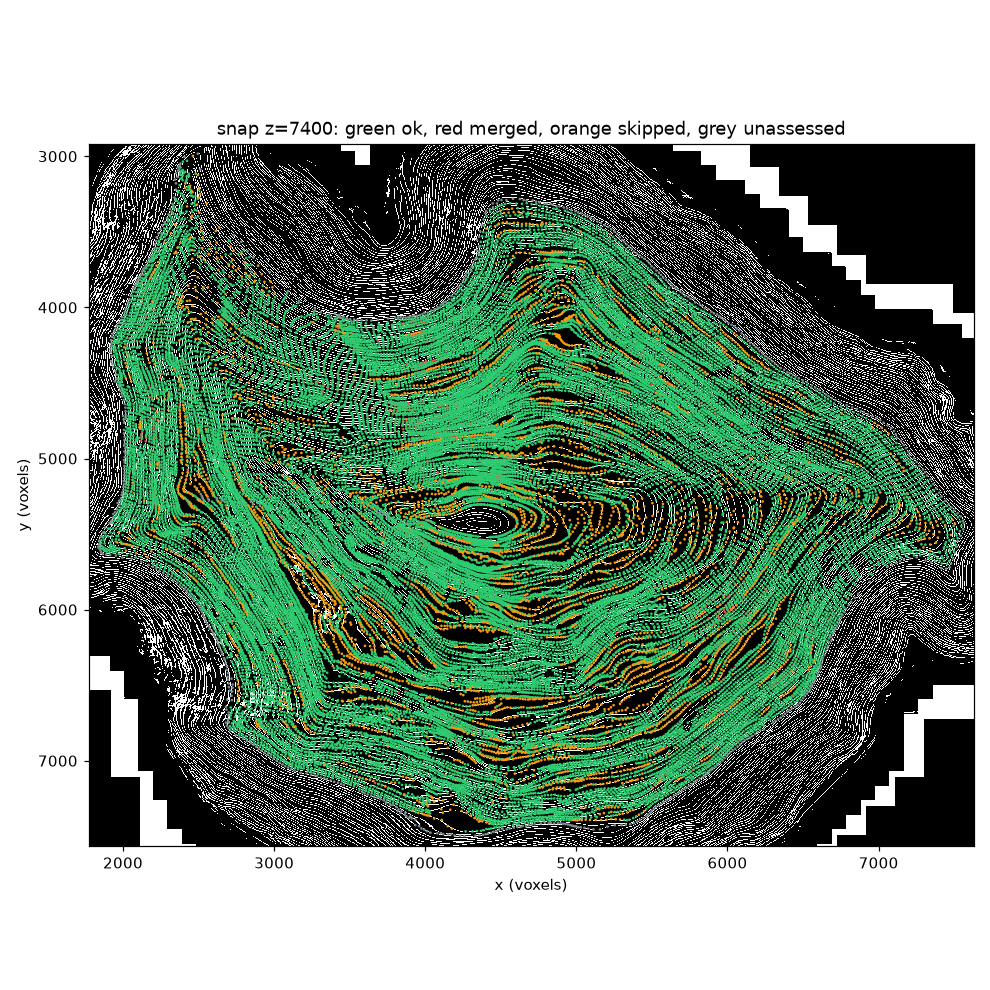
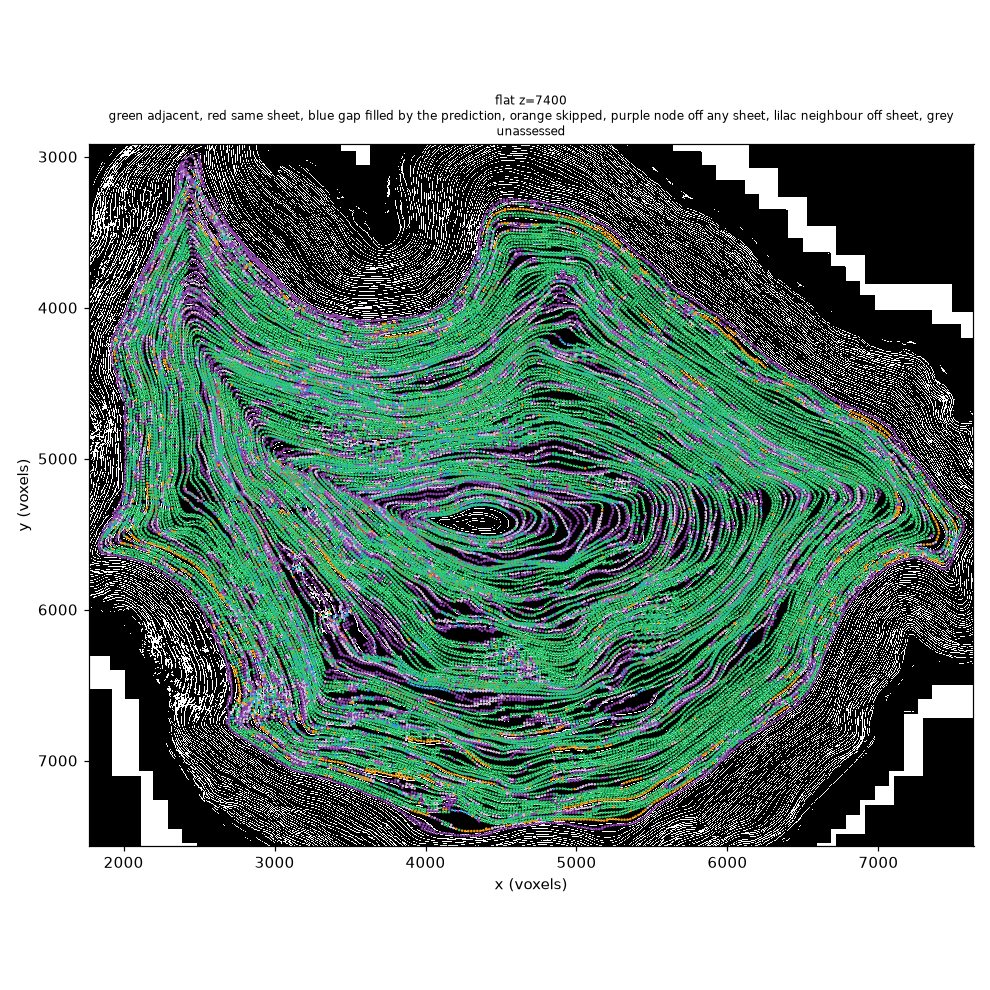
Measure to the neighbour's surface; take the pitch from the prediction
Spacing: the distance from a node to the next winding is now to its surface,
the foot of the perpendicular onto the neighbour's tangent plane at its
nearest node (falls back to the node if the foot slides more than a grid
step). On a 20-voxel grid the nearest node can be 10+ voxels to the side, so
two windings lying on top of each other read as a pitch apart. Checked on
PHerc. 0175A flatten output against exact point-to-triangle distances to the
neighbour mesh (agree within 1 voxel for ~90% of nodes): w030/w031 are within
2 voxels on 55% of w030, w101/w102 on 31%, w070/w071 on 2%.

Pitch: with a prediction, the sheet pitch is the median spacing of
consecutive predicted-sheet runs along the node normals (prediction_pitch),
not the pair's own median spacing, which a collapsed pair shrinks (w030: 1.4
vs 15.5 voxels). Rows record the pitch used, the pair's median spacing and
their ratio (collapsed < 0.75, stretched > 1.25). The repair uses the same
pitch. grid_normals moves to tifxyz.

Tests: offset-node merger found only with the surface distance; prediction
pitch recovers the synthetic pitch.

diff --git a/winding_audit/spacing.py b/winding_audit/spacing.py
@@ -4,6 +4,13 @@ Adjacent windings of a scroll are one sheet pitch apart everywhere. A node much 
 winding means the two windings sit on the same sheet there (a merger); a node much farther means a wrap was skipped.
 The pitch is estimated from the data itself (the median spacing of the pair), so no scroll-specific value is needed.
 
+Distances are to the neighbour's *surface*, not its nodes: on a 20-voxel grid the nearest node of the next winding
+can be 10 or more voxels to the side, so two windings that touch would read as a pitch apart. The nearest node is
+found first (with an angular window, below), then the node is projected onto the neighbour's tangent plane there
+(the plane through that node, normal to the neighbour's grid). The foot of that perpendicular is the nearest point;
+if it slides more than a grid step from the node it was built on (a curved or folded neighbour), the node itself is
+used.
+
 A node that is far from the neighbour but whose nearest point lies on the neighbour's own boundary (its band edge, or
 the edge of a hole) is not called "skipped": the true nearest sheet point may be outside the neighbour's coverage, so a
 large distance says nothing there. A small or normal distance to a boundary point is still a real measurement.
@@ -16,7 +23,7 @@ import numpy as np
 from scipy import ndimage
 from scipy.spatial import cKDTree
 
-from .tifxyz import Winding
+from .tifxyz import Winding, grid_normals
 
 OK, MERGED, SKIPPED, UNASSESSED = 0, 1, 2, 3
 FLAG_NAMES = {OK: "ok", MERGED: "merged", SKIPPED: "skipped", UNASSESSED: "unassessed"}
@@ -28,6 +35,7 @@ class SpacingResult:
     nearest: np.ndarray      # (H, W, 3) nearest point on B
     flag: np.ndarray         # (H, W) int8: OK / MERGED / SKIPPED / UNASSESSED (UNASSESSED also where A is invalid)
     pitch: float             # estimated sheet pitch for this pair (voxels)
+    on_plane: np.ndarray | None = None   # (H, W) bool: the nearest point is the foot on B's tangent plane
 
     def fractions(self) -> dict[str, float]:
         assessed = (self.flag == OK) | (self.flag == MERGED) | (self.flag == SKIPPED)
@@ -49,8 +57,9 @@ def boundary_mask(valid: np.ndarray) -> np.ndarray:
 
 
 def neighbour_spacing(a: Winding, b: Winding, merge_frac: float = 0.3, skip_frac: float = 1.7,
-                      pitch: float | None = None, angular_weight: float = 10.0) -> SpacingResult:
-    """Distance from every node of ``a`` to the surface of ``b`` (nearest node), with merged / skipped flags.
+                      pitch: float | None = None, angular_weight: float = 10.0,
+                      to_surface: bool = True) -> SpacingResult:
+    """Distance from every node of ``a`` to the surface of ``b``, with merged / skipped flags.
 
     Each winding is one turn of the spiral, columns ordered by angle, so the end of winding k physically meets the
     start of winding k+1 (one sheet continuing). A plain nearest-point distance reads ~0 there and would call it a
@@ -65,7 +74,7 @@ def neighbour_spacing(a: Winding, b: Winding, merge_frac: float = 0.3, skip_frac
     nearest = np.full((H, W, 3), np.nan)
     flag = np.full((H, W), UNASSESSED, np.int8)
     if len(pa) == 0 or len(pb) == 0:
-        return SpacingResult(distance, nearest, flag, float("nan"))
+        return SpacingResult(distance, nearest, flag, float("nan"), np.zeros((H, W), bool))
     d0, _ = cKDTree(pb).query(pa, workers=1)            # pass 1: plain 3D, only to scale the angular axis
     pitch0 = pitch if pitch is not None else float(np.median(d0))
     ta = rca[:, 1] / max(a.xyz.shape[1] - 1, 1)
@@ -74,9 +83,18 @@ def neighbour_spacing(a: Winding, b: Winding, merge_frac: float = 0.3, skip_frac
     qa = np.column_stack([pa, lam * ta])
     qb = np.column_stack([pb, lam * tb])
     _, j = cKDTree(qb).query(qa, workers=1)             # pass 2: nearest neighbour node at a similar angle
-    d = np.linalg.norm(pb[j] - pa, axis=1)              # the reported distance is the plain 3D one
+    q = pb[j]
+    plane = np.zeros(len(pa), bool)
+    if to_surface:
+        nb = grid_normals(b.xyz)[rcb[j, 0], rcb[j, 1]]
+        foot = pa - ((pa - q) * nb).sum(1, keepdims=True) * nb
+        plane = np.isfinite(foot).all(1) & (np.linalg.norm(foot - q, axis=1) <= b.grid_step)
+        q = np.where(plane[:, None], foot, q)
+    d = np.linalg.norm(q - pa, axis=1)                  # plain 3D distance to the surface point
     distance[rca[:, 0], rca[:, 1]] = d
-    nearest[rca[:, 0], rca[:, 1]] = pb[j]
+    nearest[rca[:, 0], rca[:, 1]] = q
+    on_plane = np.zeros((H, W), bool)
+    on_plane[rca[:, 0], rca[:, 1]] = plane
     on_edge = boundary_mask(b.valid)[rcb[j, 0], rcb[j, 1]]
     if pitch is None:
         core = d[~on_edge]
@@ -86,4 +104,4 @@ def neighbour_spacing(a: Winding, b: Winding, merge_frac: float = 0.3, skip_frac
     # the band edge), so "skipped" cannot be read off it; a small or normal distance to a border point is still real
     f[on_edge & (f == SKIPPED)] = UNASSESSED
     flag[rca[:, 0], rca[:, 1]] = f
-    return SpacingResult(distance, nearest, flag, pitch)
+    return SpacingResult(distance, nearest, flag, pitch, on_plane)

diff --git a/winding_audit/repair.py b/winding_audit/repair.py
@@ -30,9 +30,9 @@ from dataclasses import dataclass, field
 
 import numpy as np
 
-from .sheets import sample_volume
+from .sheets import prediction_pitch, sample_volume
 from .spacing import neighbour_spacing
-from .tifxyz import Winding
+from .tifxyz import Winding, grid_normals  # noqa: F401  (grid_normals re-exported)
 
 R_KEPT, R_MOVED, R_UNREPAIRED, R_REJECTED, R_NOT_ASSESSED, R_SHARED = 0, 1, 2, 3, 4, 5
 REPAIR_STATUS_NAMES = {R_KEPT: "kept", R_MOVED: "moved", R_SHARED: "kept_shared_run", R_UNREPAIRED: "unrepaired",
@@ -46,32 +46,6 @@ class RepairResult:
     status: np.ndarray          # (H, W) int8 R_*
     pitch: float
     stats: dict = field(default_factory=dict)
-
-
-def grid_normals(xyz: np.ndarray) -> np.ndarray:
-    """Unit normals of a tifxyz grid (H, W, 3), NaN where undefined: cross product of the column and row tangents
-    (central differences where both neighbours exist, one-sided otherwise)."""
-    def tangent(axis):
-        fwd = np.roll(xyz, -1, axis) - xyz
-        bwd = xyz - np.roll(xyz, 1, axis)
-        n = xyz.shape[axis]
-        sl = [slice(None)] * 3
-        sl[axis] = slice(n - 1, n)
-        fwd[tuple(sl)] = np.nan
-        sl[axis] = slice(0, 1)
-        bwd[tuple(sl)] = np.nan
-        f_ok, b_ok = np.isfinite(fwd).all(-1), np.isfinite(bwd).all(-1)
-        t = np.full_like(xyz, np.nan)
-        both = f_ok & b_ok
-        t[both] = 0.5 * (fwd[both] + bwd[both])
-        t[f_ok & ~b_ok] = fwd[f_ok & ~b_ok]
-        t[b_ok & ~f_ok] = bwd[b_ok & ~f_ok]
-        return t
-    n = np.cross(tangent(1), tangent(0))
-    norm = np.linalg.norm(n, axis=-1, keepdims=True)
-    with np.errstate(invalid="ignore", divide="ignore"):
-        n = n / np.where(norm > 1e-9, norm, np.nan)
-    return n
 
 
 def edge_stretch(xyz: np.ndarray, grid_step: float) -> dict:
@@ -100,11 +74,13 @@ def _run_id_at(runid: np.ndarray, centre_idx: np.ndarray, w: int) -> np.ndarray:
 
 def repair_winding(a: Winding, prev: Winding, nxt: Winding, surface, threshold: int = 128, node_tol: float = 2.0,
                    max_shift_frac: float = 1.25, search_frac: float = 2.5, jump_frac: float = 0.4,
-                   step: float = 1.0) -> RepairResult:
+                   step: float = 1.0, pitch: float | None = None) -> RepairResult:
     H, W = a.xyz.shape[:2]
-    sp_n = neighbour_spacing(a, nxt)
-    sp_p = neighbour_spacing(a, prev)
-    pitch = float(np.nanmedian([sp_n.pitch, sp_p.pitch]))
+    if pitch is None or not np.isfinite(pitch):
+        pitch = prediction_pitch(a, surface, threshold)
+    pitch = float(pitch)
+    sp_n = neighbour_spacing(a, nxt, pitch=pitch)
+    sp_p = neighbour_spacing(a, prev, pitch=pitch)
     status = np.full((H, W), R_NOT_ASSESSED, np.int8)
     shift = np.full((H, W), np.nan)
     shift[a.valid] = 0.0
@@ -112,7 +88,7 @@ def repair_winding(a: Winding, prev: Winding, nxt: Winding, surface, threshold: 
     # the neighbours' positions are read by projecting their nearest points onto the normal; that holds even where
     # the spacing check left a node unassessed (its nearest point on the neighbour's border), as long as the nearest
     # point is not far to the side (the neighbour has no coverage there)
-    side_max = max(2.0 * a.grid_step, 2.0 * float(np.nanmedian([sp_n.pitch, sp_p.pitch])))
+    side_max = max(2.0 * a.grid_step, 2.0 * pitch)
     ok = a.valid & np.isfinite(n).all(-1) & np.isfinite(sp_n.distance) & np.isfinite(sp_p.distance)
     for q in (sp_n.nearest, sp_p.nearest):
         d = np.where(ok[..., None], q - a.xyz, 0.0)

diff --git a/tests/test_synthetic.py b/tests/test_synthetic.py
@@ -166,3 +166,40 @@ def test_collapsed_pair_is_reported(tmp_path):
     assert all(0.75 < rows[f"w00{k}_syn"]["pitch_ratio"] < 1.25 for k in (0, 3, 4))
     summary = json.load(open(out / "summary.json"))
     assert summary["pairs_collapsed"] == 1 and summary["pairs_stretched"] == 1
+
+
+def test_touching_windings_with_offset_nodes_are_merged():
+    """Two windings on one sheet whose nodes sit half a grid step apart around the turn: the nearest *node* is ~5
+    voxels away (half a pitch), the nearest *surface* point ~0. The surface distance must call it merged."""
+    from winding_audit.spacing import MERGED, neighbour_spacing
+    from winding_audit.tifxyz import Winding
+    centre, r0, n_theta = (89.5, 89.5), 40.0, 24
+    thetas = np.linspace(0, 2 * np.pi, n_theta, endpoint=False)
+    half = np.pi / n_theta
+    zs = np.arange(0.5, 40, 10.0)
+
+    def winding(n, th):
+        r = r0 + PITCH * (n + th / (2 * np.pi))
+        xyz = np.empty((len(zs), len(th), 3))
+        xyz[..., 0] = centre[1] + r * np.cos(th)
+        xyz[..., 1] = centre[0] + r * np.sin(th)
+        xyz[..., 2] = zs[:, None]
+        return Winding(f"w{n:03d}", "", xyz, {"scale": [0.1, 0.1]})
+
+    a = winding(1, thetas)
+    b = winding(1, thetas + half)                  # same sheet, nodes shifted half a column
+    b.xyz[..., 2] += 5.0                           # and half a row
+    node = neighbour_spacing(a, b, pitch=PITCH, to_surface=False)
+    surf = neighbour_spacing(a, b, pitch=PITCH)
+    inner = np.zeros_like(a.valid)
+    inner[1:-1, 1:-1] = True                       # the neighbour's plane is defined away from its border
+    assert np.nanmedian(node.distance[inner]) > 0.3 * PITCH         # node distance misses the merger
+    assert (surf.flag[inner] == MERGED).mean() > 0.9                  # surface distance finds it
+    assert np.nanmedian(surf.distance[inner]) < 1.0
+
+
+def test_prediction_pitch(dataset):
+    from winding_audit.sheets import prediction_pitch
+    surface, ws, _, _ = dataset
+    for k in (1, 2, 3):
+        assert abs(prediction_pitch(ws[k], surface) - PITCH) < 1.5

diff --git a/winding_audit/sheets.py b/winding_audit/sheets.py
@@ -27,7 +27,7 @@ import zarr
 zarr.config.set({"async.concurrency": 2})   # this tool shares the machine; one chunk at a time is enough
 
 from .spacing import SpacingResult, UNASSESSED
-from .tifxyz import Winding
+from .tifxyz import Winding, grid_normals
 
 
 S_ADJACENT, S_MERGED, S_SKIPPED, S_START_OFF, S_END_OFF, S_UNASSESSED, S_FUSED = 0, 1, 2, 3, 4, 5, 6
@@ -147,6 +147,32 @@ def node_sheet_distance(arr, pts_xyz: np.ndarray, threshold: int = 128, radius: 
             cand = np.where(hit, norms[None, :], np.inf).min(1)
             out[ss] = np.minimum(out[ss], cand)
     return out
+
+
+def prediction_pitch(a: Winding, surface, threshold: int = 128, n_sample: int = 2000, half_span: float = 40.0,
+                     min_gap: float = 3.0, seed: int = 0) -> float:
+    """The sheet pitch read from the prediction itself: along the normals of a sample of the winding's nodes, the
+    median spacing between consecutive predicted-sheet runs (run centres; gaps under ``min_gap`` voxels, a sheet
+    split in two, are ignored). Unlike a pair's own median spacing, it cannot shrink when the two windings of the
+    pair sit on one sheet."""
+    n = grid_normals(a.xyz)
+    ok = a.valid & np.isfinite(n).all(-1)
+    idx = np.flatnonzero(ok)
+    if len(idx) == 0:
+        return float("nan")
+    idx = np.random.default_rng(seed).choice(idx, min(n_sample, len(idx)), replace=False)
+    r, c = np.unravel_index(idx, ok.shape)
+    p, nv = a.xyz[r, c], n[r, c]
+    t = np.arange(-half_span, half_span + 1)
+    on = sample_volume(surface, (p[:, None, :] + t[None, :, None] * nv[:, None, :]).reshape(-1, 3))
+    on = on.reshape(len(p), len(t)) >= threshold
+    d = np.diff(np.pad(on.astype(np.int8), ((0, 0), (1, 1))), axis=1)
+    rs, cs = np.nonzero(d == 1)
+    _, ce = np.nonzero(d == -1)
+    centre = (cs + ce - 1) / 2.0
+    gaps = np.diff(centre)[rs[1:] == rs[:-1]]
+    gaps = gaps[gaps >= min_gap]
+    return float(np.median(gaps)) if len(gaps) else float("nan")
 
 
 def count_runs(mask: np.ndarray) -> np.ndarray:

diff --git a/winding_audit/cli.py b/winding_audit/cli.py
@@ -19,7 +19,7 @@ import numpy as np
 
 from . import report as rep
 from .figures import winding_grid_figure
-from .sheets import open_surface, sheet_counts
+from .sheets import open_surface, prediction_pitch, sheet_counts
 from .spacing import neighbour_spacing
 from .tifxyz import list_windings, load_winding, save_winding
 
@@ -43,7 +43,10 @@ def cmd_audit(a):
             if m["verdict"].size:
                 verdicts[w1.name] = m["verdict"]
             continue
-        sp = neighbour_spacing(w1, w2, a.merge_frac, a.skip_frac)
+        # the pitch comes from the prediction when there is one: a pair on one sheet cannot shrink it
+        pitch = _retry(lambda: prediction_pitch(w1, surface, a.threshold)) if surface is not None else None
+        sp = neighbour_spacing(w1, w2, a.merge_frac, a.skip_frac,
+                               pitch=pitch if pitch is not None and np.isfinite(pitch) else None)
         sc = (_retry(lambda: sheet_counts(w1, sp, surface, a.threshold, node_tol=a.node_tol, radius=a.radius))
               if surface is not None else None)
         row = rep.pair_row(w1, w2, sp, sc, a.voxel_um)
@@ -60,7 +63,8 @@ def cmd_audit(a):
         if a.grid_figures:
             winding_grid_figure(w1.name, sp, sc, os.path.join(a.out, "windings", f"{w1.name}.png"), w1.grid_step,
                                 a.voxel_um)
-        print(f"{w1.name:>16s} -> {w2.name:<16s} pitch {sp.pitch:5.1f} vox  spacing merged {row['frac_merged']:.3f} "
+        print(f"{w1.name:>16s} -> {w2.name:<16s} pitch {sp.pitch:5.1f} vox, pair spacing "
+              f"{row['pair_median_vox']:5.1f}  spacing merged {row['frac_merged']:.3f} "
               f"skipped {row['frac_skipped']:.3f}" + (f" | off-sheet {row['frac_node_off_sheet']:.3f} | sheets: "
               f"adjacent {row['frac_sheet_adjacent']:.3f} merged {row['frac_sheet_merged']:.3f} "
               f"fused {row['frac_sheet_fused']:.3f} skipped {row['frac_sheet_skipped']:.3f}" if sc is not None else ""),

diff --git a/winding_audit/report.py b/winding_audit/report.py
@@ -17,7 +17,12 @@ COLLAPSED, STRETCHED = 0.75, 1.25    # pair pitch / local pitch outside these: t
 
 def pair_row(a: Winding, b: Winding, sp: SpacingResult, sc: SheetCountResult | None, voxel_um: float | None) -> dict:
     row = {"winding": a.name, "next": b.name, "n_nodes": int(a.valid.sum()), **sp.fractions()}
-    row["pitch_vox"] = sp.pitch
+    row["pitch_vox"] = sp.pitch                       # the pitch the flags use (prediction pitch when available)
+    d = sp.distance[np.isin(sp.flag, (OK, MERGED, SKIPPED))]
+    row["pair_median_vox"] = float(np.median(d)) if len(d) else None
+    row["pitch_source"] = "prediction" if sc is not None else "pair"
+    row["pitch_ratio"] = (row["pair_median_vox"] / sp.pitch
+                          if sc is not None and row["pair_median_vox"] is not None and sp.pitch else None)
     if sc is not None:
         h = sc.histogram()
         row.update({f"sheet_{k}": v for k, v in h.items()})
@@ -39,9 +44,11 @@ def pair_row(a: Winding, b: Winding, sp: SpacingResult, sc: SheetCountResult | N
 
 
 def add_local_pitch(rows: list[dict], voxel_um: float | None = None, half_window: int = 3):
-    """Local pitch = the mean pair pitch over +-half_window neighbouring pairs (the band's radial span per winding
-    there). A pair whose two windings sit on one sheet has a small median spacing of its own and hides from its own
-    pitch; against the local pitch it shows (ratio well below 1, its neighbour pair above 1)."""
+    """Without a prediction (spacing only), the pitch ratio is taken against the local pitch: the mean pair pitch
+    over +-half_window neighbouring pairs (the band's radial span per winding there). Rows that already have a
+    ratio against the prediction pitch keep it."""
+    if all(r.get("pitch_source") == "prediction" and r.get("pitch_ratio") is not None for r in rows):
+        return rows
     def pv(r):
         if r.get("pitch_vox") is not None:
             return r["pitch_vox"]

diff --git a/winding_audit/tifxyz.py b/winding_audit/tifxyz.py
@@ -85,3 +85,29 @@ def save_winding(w: Winding, out_dir: str) -> str:
         meta["bbox"] = [w.xyz[v].min(0).tolist(), w.xyz[v].max(0).tolist()]
     json.dump(meta, open(os.path.join(out_dir, "meta.json"), "w"), indent=2)
     return out_dir
+
+
+def grid_normals(xyz: np.ndarray) -> np.ndarray:
+    """Unit normals of a tifxyz grid (H, W, 3), NaN where undefined: cross product of the column and row tangents
+    (central differences where both neighbours exist, one-sided otherwise)."""
+    def tangent(axis):
+        fwd = np.roll(xyz, -1, axis) - xyz
+        bwd = xyz - np.roll(xyz, 1, axis)
+        n = xyz.shape[axis]
+        sl = [slice(None)] * 3
+        sl[axis] = slice(n - 1, n)
+        fwd[tuple(sl)] = np.nan
+        sl[axis] = slice(0, 1)
+        bwd[tuple(sl)] = np.nan
+        f_ok, b_ok = np.isfinite(fwd).all(-1), np.isfinite(bwd).all(-1)
+        t = np.full_like(xyz, np.nan)
+        both = f_ok & b_ok
+        t[both] = 0.5 * (fwd[both] + bwd[both])
+        t[f_ok & ~b_ok] = fwd[f_ok & ~b_ok]
+        t[b_ok & ~f_ok] = bwd[b_ok & ~f_ok]
+        return t
+    n = np.cross(tangent(1), tangent(0))
+    norm = np.linalg.norm(n, axis=-1, keepdims=True)
+    with np.errstate(invalid="ignore", divide="ignore"):
+        n = n / np.where(norm > 1e-9, norm, np.nan)
+    return n
